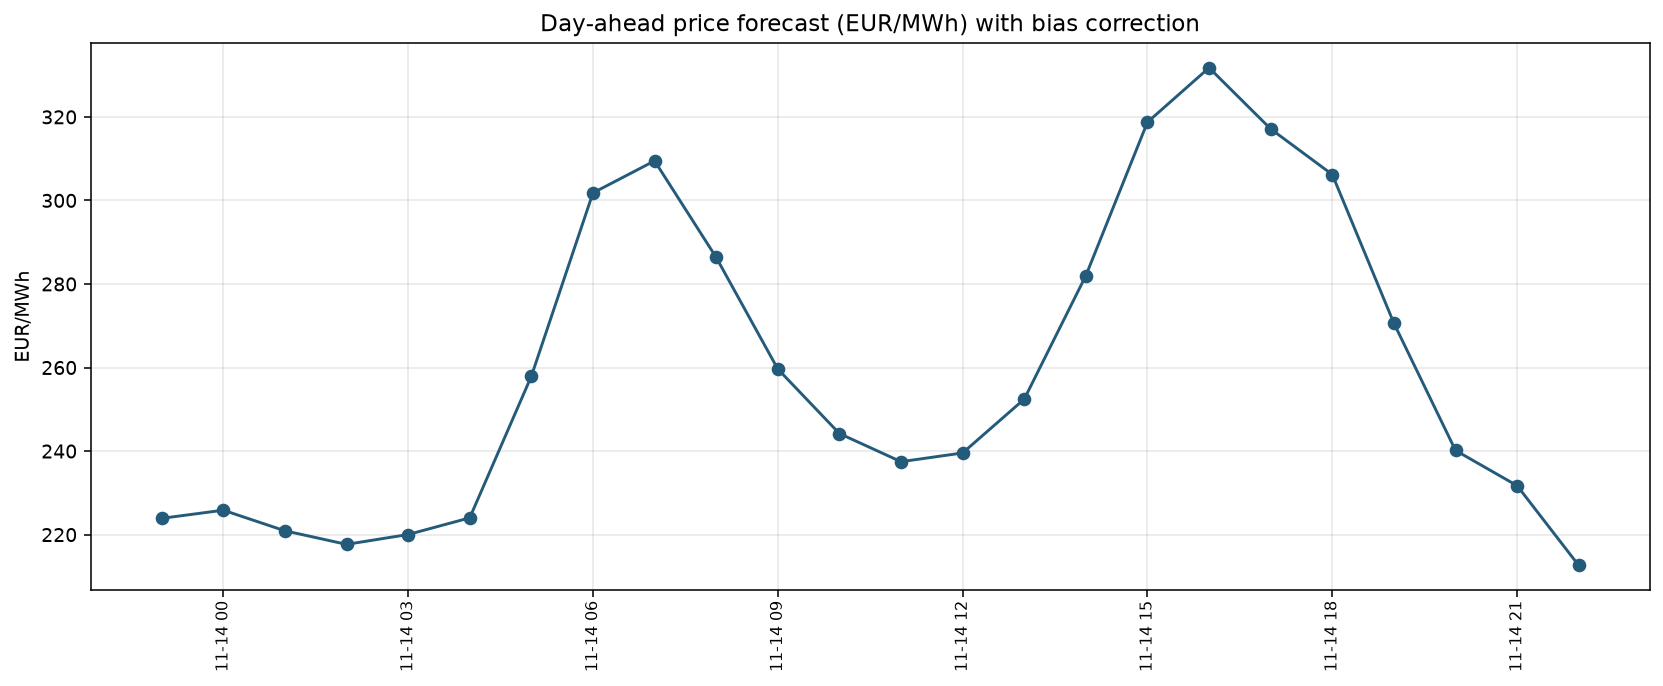
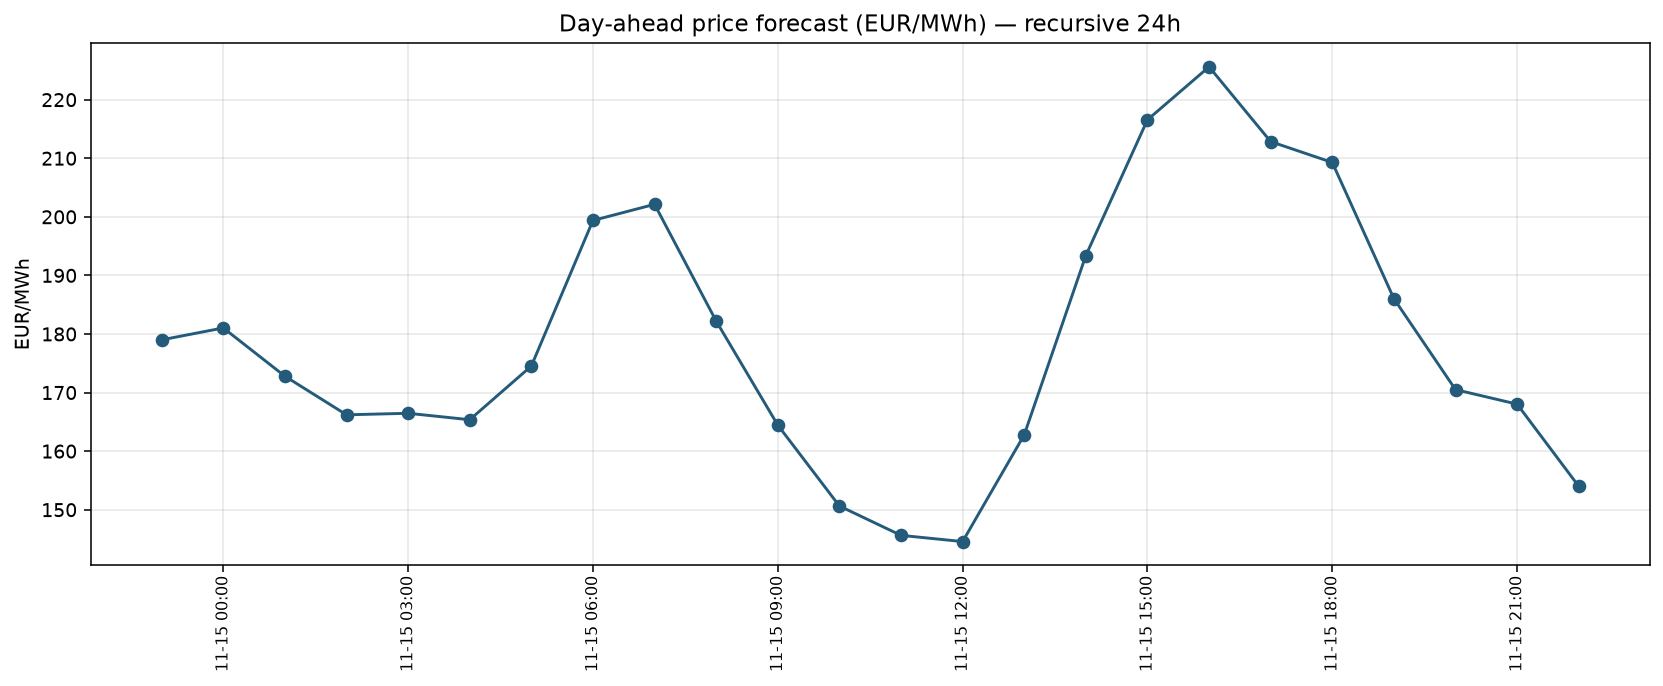
chore: daily forecast update

diff --git a/scripts/run_daily_forecast.py b/scripts/run_daily_forecast.py
@@ -8,6 +8,7 @@ from pathlib import Path
 import matplotlib
 matplotlib.use("Agg")
 import matplotlib.pyplot as plt
+import matplotlib.dates as mdates
 import numpy as np
 import pandas as pd
 
@@ -15,9 +16,8 @@ ROOT = Path(__file__).resolve().parents[1]
 sys.path.insert(0, str(ROOT / "src"))
 sys.path.insert(0, str(ROOT / "scripts"))
 
-from electricity_forecast.features import make_features
-from electricity_forecast.train import fit_ensemble, predict_ensemble
 from bias_correction import collect_errors, hourly_bias, apply_bias_correction
+from forecast_horizon import recursive_forecast
 
 RAW = ROOT / "data" / "raw"
 OUT_DIR = ROOT / "outputs" / "forecasts"
@@ -45,6 +45,18 @@ def update_data() -> None:
     script = ROOT / "scripts" / "update_data.py"
     print("Running update_data.py ...")
     subprocess.run([sys.executable, str(script)], check=False)
+
+
+def print_data_ranges() -> None:
+    print("\n--- DATA RANGES AFTER UPDATE ---")
+    for label, path in [("price", PRICE), ("smard", SMARD), ("weather", WEATHER)]:
+        if not path.exists():
+            print(label, "MISSING")
+            continue
+        d = pd.read_csv(path, usecols=["timestamp_utc"])
+        t = pd.to_datetime(d["timestamp_utc"], utc=True)
+        print(f"{label}: rows={len(d):,}  {t.min()} -> {t.max()}")
+    print("--- END DATA RANGES ---\n")
 
 
 def load_frame() -> pd.DataFrame:
@@ -82,46 +94,23 @@ def load_frame() -> pd.DataFrame:
         weather = pd.DataFrame(columns=["avg_wind", "avg_temp", "avg_rad"])
 
     df = price.join(sm, how="left").join(weather, how="left")
-    df = df.ffill(limit=6)
+    df = df.ffill(limit=48)
     return df.dropna(subset=["price_eur_mwh"])
-
-
-def make_forecast(df: pd.DataFrame, now: pd.Timestamp) -> pd.DataFrame:
-    X, y = make_features(df, external_shift=24)
-    if len(X) < 500:
-        raise RuntimeError("Not enough rows after features")
-    models = fit_ensemble(X, y, hgb_weight=0.65)
-    last = y.index.max()
-    future = pd.date_range(last + pd.Timedelta(hours=1), periods=24, freq="h", tz="UTC")
-    recent = X.iloc[-24 * 14 :]
-    pred_recent = predict_ensemble(models, recent)
-    rows = []
-    for ts in future:
-        mask = recent.index.hour == ts.hour
-        yhat = float(np.mean(pred_recent[mask])) if mask.any() else float(pred_recent[-1])
-        rows.append(
-            {
-                "timestamp_utc": ts,
-                "yhat_eur_mwh": round(yhat, 2),
-                "run_time_utc": now,
-                "basis_last_data_utc": last,
-            }
-        )
-    return pd.DataFrame(rows)
 
 
 def plot_forecast(forecast: pd.DataFrame, path: Path) -> None:
     fig, ax = plt.subplots(figsize=(12, 5))
     ax.plot(
-        forecast["timestamp_utc"],
+        pd.to_datetime(forecast["timestamp_utc"], utc=True),
         forecast["yhat_eur_mwh"],
         marker="o",
         lw=1.5,
         color="#245B7A",
     )
-    ax.set_title("Day-ahead price forecast (EUR/MWh) with bias correction")
+    ax.set_title("Day-ahead price forecast (EUR/MWh) — recursive 24h")
     ax.set_ylabel("EUR/MWh")
     ax.grid(True, alpha=0.3)
+    ax.xaxis.set_major_formatter(mdates.DateFormatter("%m-%d %H:%M"))
     rotate_x_labels(ax)
     fig.tight_layout()
     fig.savefig(path, dpi=140, bbox_inches="tight")
@@ -133,7 +122,10 @@ def score_past(price_csv: Path) -> pd.DataFrame:
     p["ts"] = pd.to_datetime(p["timestamp_utc"], utc=True)
     price = p.set_index("ts")["price_eur_mwh"].astype(float)
     rows = []
-    last_detail = last_mae = last_name = None
+    best_detail = None
+    best_mae = 1e9
+    best_name = None
+
     for fpath in sorted(OUT_DIR.glob("forecast_*.csv")):
         fc = pd.read_csv(fpath)
         if "yhat_eur_mwh" not in fc.columns:
@@ -141,7 +133,7 @@ def score_past(price_csv: Path) -> pd.DataFrame:
         fc["timestamp_utc"] = pd.to_datetime(fc["timestamp_utc"], utc=True)
         fc = fc.set_index("timestamp_utc")
         common = fc.index.intersection(price.index)
-        if len(common) == 0:
+        if len(common) < 1:
             continue
         y = price.loc[common]
         pred = fc.loc[common, "yhat_eur_mwh"]
@@ -155,22 +147,21 @@ def score_past(price_csv: Path) -> pd.DataFrame:
                 "rmse": round(rmse, 2),
             }
         )
-        detail = pd.DataFrame({"actual": y, "forecast": pred}).sort_index()
-        last_detail, last_mae, last_name = detail, mae, fpath.name
+        # plot only reasonable full-ish days (skip broken MAE explosions for README chart)
+        if len(common) >= 12 and mae < 80 and mae < best_mae:
+            best_mae = mae
+            best_name = fpath.name
+            best_detail = pd.DataFrame({"actual": y, "forecast": pred}).sort_index()
 
-    if last_detail is not None:
+    if best_detail is not None:
         fig, ax = plt.subplots(figsize=(12, 5))
-        ax.plot(last_detail.index, last_detail["actual"], label="Actual", color="#17324D")
-        ax.plot(
-            last_detail.index,
-            last_detail["forecast"],
-            label="Forecast",
-            color="#C45C26",
-        )
-        ax.set_title(f"Forecast vs actual - {last_name} (MAE={last_mae:.1f})")
+        ax.plot(best_detail.index, best_detail["actual"], label="Actual", color="#17324D")
+        ax.plot(best_detail.index, best_detail["forecast"], label="Forecast", color="#C45C26")
+        ax.set_title(f"Forecast vs actual - {best_name} (MAE={best_mae:.1f})")
         ax.set_ylabel("EUR/MWh")
         ax.legend(frameon=False)
         ax.grid(True, alpha=0.3)
+        ax.xaxis.set_major_formatter(mdates.DateFormatter("%m-%d %H:%M"))
         rotate_x_labels(ax)
         fig.tight_layout()
         fig.savefig(FIG_DIR / "latest_vs_actual.png", dpi=140, bbox_inches="tight")
@@ -197,7 +188,7 @@ def score_table_md(score: pd.DataFrame) -> str:
         "| Forecast file | Hours scored | MAE | RMSE |",
         "|---------------|--------------|-----|------|",
     ]
-    for _, r in score.iterrows():
+    for _, r in score.sort_values("forecast_file").iterrows():
         lines.append(
             f"| `{r['forecast_file']}` | {r['n_hours_scored']} | {r['mae']:.2f} | {r['rmse']:.2f} |"
         )
@@ -215,7 +206,7 @@ def update_readme(forecast: pd.DataFrame, score: pd.DataFrame, now: pd.Timestamp
 **Generated (UTC):** {now.strftime('%Y-%m-%d %H:%M')}  
 **Based on data up to (UTC):** {basis.strftime('%Y-%m-%d %H:%M')}  
 **Forecast horizon (UTC):** {f0.strftime('%Y-%m-%d %H:%M')} to {f1.strftime('%Y-%m-%d %H:%M')}  
-**Protocol:** Conservative (external_shift = 24) + hourly bias correction
+**Protocol:** Conservative (external_shift = 24) + recursive 24h + hourly bias correction
 
 ### Forecast chart
 
@@ -247,23 +238,14 @@ def main() -> None:
     now = pd.Timestamp.now(tz="UTC")
     print("START daily forecast", now)
     update_data()
-    print("\n--- DATA RANGES AFTER UPDATE ---")
-    for label, path in [
-        ("price", PRICE),
-        ("smard", SMARD),
-        ("weather", WEATHER),
-    ]:
-        if not path.exists():
-            print(label, "MISSING")
-            continue
-        d = pd.read_csv(path, usecols=["timestamp_utc"])
-        t = pd.to_datetime(d["timestamp_utc"], utc=True)
-        print(f"{label}: rows={len(d):,}  {t.min()} -> {t.max()}")
-    print("--- END DATA RANGES ---\n")
+    print_data_ranges()
+
     df = load_frame()
     print(f"Joined rows={len(df)} last={df.index.max()}")
 
-    forecast = make_forecast(df, now)
+    forecast = recursive_forecast(df, now, horizon=24, external_shift=24)
+    print("Horizon:", forecast["timestamp_utc"].min(), "->", forecast["timestamp_utc"].max())
+    print("Basis:", forecast["basis_last_data_utc"].iloc[0])
 
     price_s = df["price_eur_mwh"]
     errors = collect_errors(price_s)

diff --git a/README.md b/README.md
@@ -195,10 +195,10 @@ Licence: MIT (code). Underlying market data remain subject to their original lic
 
 ## Live daily forecast
 
-**Generated (UTC):** 2026-11-12 22:44  
-**Based on data up to (UTC):** 2026-11-13 22:00  
-**Forecast horizon (UTC):** 2026-11-13 23:00 to 2026-11-14 22:00  
-**Protocol:** Conservative (external_shift = 24) + hourly bias correction
+**Generated (UTC):** 2026-11-14 00:48  
+**Based on data up to (UTC):** 2026-11-14 22:00  
+**Forecast horizon (UTC):** 2026-11-14 23:00 to 2026-11-15 22:00  
+**Protocol:** Conservative (external_shift = 24) + recursive 24h + hourly bias correction
 
 ### Forecast chart
 
@@ -208,30 +208,30 @@ Licence: MIT (code). Underlying market data remain subject to their original lic
 
 | Hour (UTC) | Forecast (EUR/MWh) | Bias |
 |------------|--------------------|------|
-| 2026-11-13 23:00 | 223.90 | -1.43 |
-| 2026-11-14 00:00 | 225.85 | -7.86 |
-| 2026-11-14 01:00 | 220.92 | -5.59 |
-| 2026-11-14 02:00 | 217.67 | -4.20 |
-| 2026-11-14 03:00 | 220.03 | -4.55 |
-| 2026-11-14 04:00 | 224.02 | 3.08 |
-| 2026-11-14 05:00 | 257.91 | 3.44 |
-| 2026-11-14 06:00 | 301.80 | -5.92 |
-| 2026-11-14 07:00 | 309.47 | -10.54 |
-| 2026-11-14 08:00 | 286.37 | -8.20 |
-| 2026-11-14 09:00 | 259.65 | -6.08 |
-| 2026-11-14 10:00 | 244.20 | -4.44 |
-| 2026-11-14 11:00 | 237.46 | -2.07 |
-| 2026-11-14 12:00 | 239.55 | -1.31 |
-| 2026-11-14 13:00 | 252.43 | -1.44 |
-| 2026-11-14 14:00 | 281.99 | -3.91 |
-| 2026-11-14 15:00 | 318.73 | -5.88 |
-| 2026-11-14 16:00 | 331.76 | 0.11 |
-| 2026-11-14 17:00 | 317.12 | 7.61 |
-| 2026-11-14 18:00 | 306.20 | 7.10 |
-| 2026-11-14 19:00 | 270.62 | 10.11 |
-| 2026-11-14 20:00 | 240.16 | 13.69 |
-| 2026-11-14 21:00 | 231.72 | 5.84 |
-| 2026-11-14 22:00 | 212.63 | 6.86 |
+| 2026-11-14 23:00 | 179.00 | -6.23 |
+| 2026-11-15 00:00 | 181.03 | -10.83 |
+| 2026-11-15 01:00 | 172.79 | -8.49 |
+| 2026-11-15 02:00 | 166.20 | -7.68 |
+| 2026-11-15 03:00 | 166.46 | -7.63 |
+| 2026-11-15 04:00 | 165.36 | -0.83 |
+| 2026-11-15 05:00 | 174.53 | -1.28 |
+| 2026-11-15 06:00 | 199.38 | -10.64 |
+| 2026-11-15 07:00 | 202.13 | -13.00 |
+| 2026-11-15 08:00 | 182.20 | -7.54 |
+| 2026-11-15 09:00 | 164.44 | -5.16 |
+| 2026-11-15 10:00 | 150.63 | -2.65 |
+| 2026-11-15 11:00 | 145.62 | -0.39 |
+| 2026-11-15 12:00 | 144.56 | -0.09 |
+| 2026-11-15 13:00 | 162.78 | -2.39 |
+| 2026-11-15 14:00 | 193.39 | -4.69 |
+| 2026-11-15 15:00 | 216.56 | -7.74 |
+| 2026-11-15 16:00 | 225.61 | -3.73 |
+| 2026-11-15 17:00 | 212.84 | 2.27 |
+| 2026-11-15 18:00 | 209.28 | 2.73 |
+| 2026-11-15 19:00 | 186.03 | 6.96 |
+| 2026-11-15 20:00 | 170.50 | 7.78 |
+| 2026-11-15 21:00 | 168.02 | 1.01 |
+| 2026-11-15 22:00 | 154.00 | 0.36 |
 
 ### Previous forecasts vs realized prices
 
@@ -247,6 +247,7 @@ Licence: MIT (code). Underlying market data remain subject to their original lic
 | `forecast_2026-11-08.csv` | 24 | 82.04 | 103.07 |
 | `forecast_2026-11-10.csv` | 24 | 100.49 | 106.82 |
 | `forecast_2026-11-11.csv` | 24 | 119.75 | 124.82 |
+| `forecast_2026-11-12.csv` | 24 | 31.60 | 35.28 |
 
 ![Forecast vs actual](outputs/figures/latest_vs_actual.png)
 
